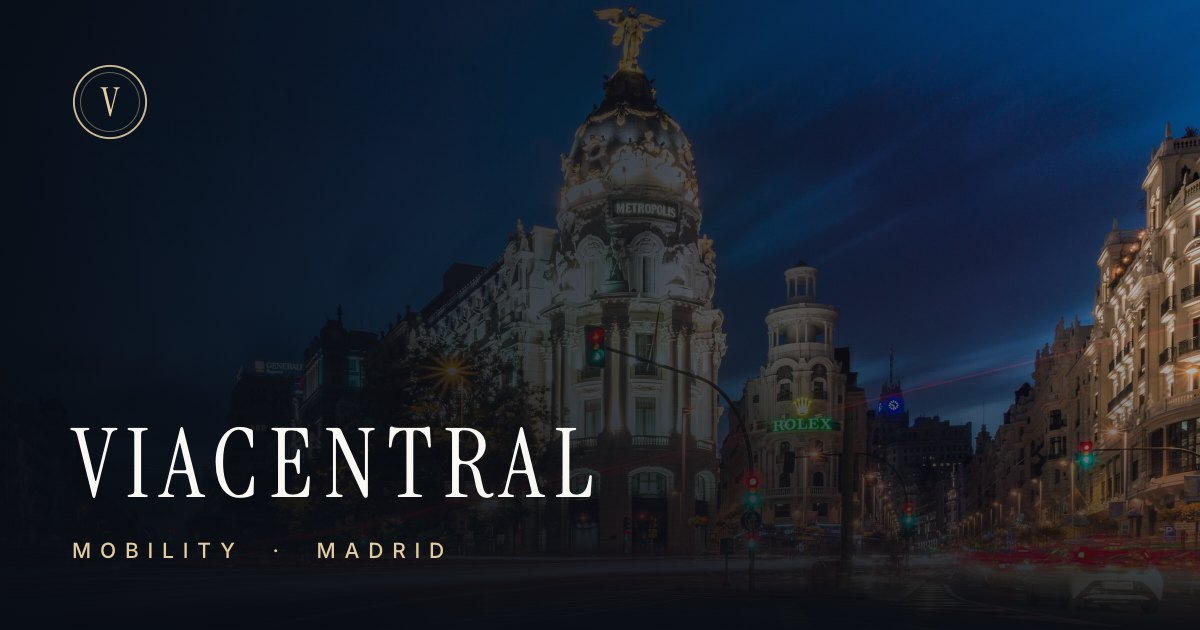
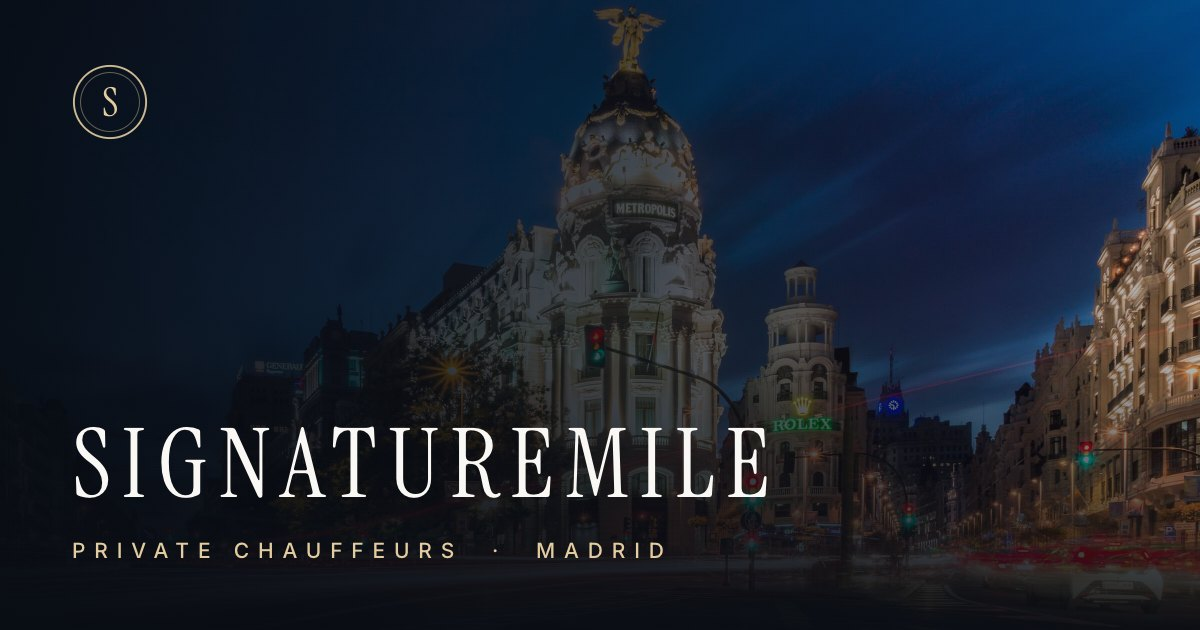
chore(brand): rename site to SignatureMile
Default contact email is now booking@signaturemile.com. Tightened
header spacing so the longer wordmark fits at 1024px.

diff --git a/frontend/src/components/layout/Header.tsx b/frontend/src/components/layout/Header.tsx
@@ -65,12 +65,12 @@ export function Header({ serviceLinks, mobileServiceLinks, phone }: Props) {
         {t.nav.skip}
       </a>
 
-      <div className="container-page flex h-[4.5rem] items-center justify-between gap-6">
-        <Link href="/" aria-label={`${site.name} ${site.descriptor}`} className="shrink-0">
+      <div className="container-page flex h-[4.5rem] items-center justify-between gap-4 xl:gap-6">
+        <Link href="/" aria-label={site.name} className="shrink-0">
           <Wordmark />
         </Link>
 
-        <nav aria-label={t.nav.main} className="hidden items-center gap-7 lg:flex">
+        <nav aria-label={t.nav.main} className="hidden items-center gap-4 lg:flex xl:gap-7">
           <div className="group relative">
             <Link href="/services" className={`${linkClass} gap-1`}>
               {t.nav.services}
@@ -87,9 +87,9 @@ export function Header({ serviceLinks, mobileServiceLinks, phone }: Props) {
           ))}
         </nav>
 
-        <div className="flex items-center gap-4">
+        <div className="flex items-center gap-3 xl:gap-4">
           {/* The width is reserved, so the menu does not move when the number arrives. */}
-          <div className="hidden min-w-[9.75rem] justify-end xl:flex">{phone}</div>
+          <div className="hidden min-w-[9.75rem] justify-end 2xl:flex">{phone}</div>
           {/* Wrappers own the show/hide rule, so it never competes with a component's own display class. */}
           <div className="hidden sm:block">
             <LanguageSwitch />

diff --git a/frontend/src/lib/seo.ts b/frontend/src/lib/seo.ts
@@ -13,7 +13,7 @@ interface PageMeta {
 }
 
 /** Picture shown when a page is shared in a chat or on social media (`public/og.jpg`). */
-const previewImage = { url: `${siteUrl}/og.jpg`, width: 1200, height: 630, alt: `${site.name} ${site.descriptor} — ${site.city}` }
+const previewImage = { url: `${siteUrl}/og.jpg`, width: 1200, height: 630, alt: `${site.name} — ${site.city}` }
 
 /** Title, description, canonical URL, `hreflang` alternates and Open Graph tags for a page. */
 export function pageMetadata({ locale, path, title, description, noIndex }: PageMeta): Metadata {
@@ -30,7 +30,7 @@ export function pageMetadata({ locale, path, title, description, noIndex }: Page
       url,
       title,
       description,
-      siteName: `${site.name} ${site.descriptor}`,
+      siteName: site.name,
       locale: localeTags[locale].replace('-', '_'),
       images: [previewImage],
     },

diff --git a/frontend/src/components/ui/Brand.tsx b/frontend/src/components/ui/Brand.tsx
@@ -26,8 +26,8 @@ export function Wordmark({ className = '' }: { className?: string }) {
     <span className={`inline-flex items-center gap-3 ${className}`}>
       <Monogram className="size-9 text-gold-300" />
       <span className="flex flex-col leading-none">
-        <span className="font-display text-[1.375rem] tracking-[0.18em] uppercase">{site.name}</span>
-        <span className="mt-1 text-[0.5625rem] font-medium tracking-[0.42em] uppercase opacity-60">{site.descriptor}</span>
+        <span className="font-display text-[1.25rem] tracking-[0.12em] uppercase">{site.name}</span>
+        <span className="mt-1 text-[0.5625rem] font-medium tracking-[0.3em] uppercase opacity-60">{site.descriptor}</span>
       </span>
     </span>
   )

diff --git a/backend/src/db/content/settings.ts b/backend/src/db/content/settings.ts
@@ -3,13 +3,13 @@ import type { SiteSettings } from '../../modules/content/schemas.js'
 /**
  * Business details a new database starts with.
  *
- * PLACEHOLDERS: the phone number, email address and company details are
+ * PLACEHOLDERS: the phone number and company details are
  * examples. Replace them in the console ("Business details") before launch.
  */
 export const DEFAULT_SITE_SETTINGS: SiteSettings = {
   phone: '+34 900 000 000',
   whatsapp: '34900000000',
-  email: 'hello@viacentralmobility.example',
+  email: 'booking@signaturemile.com',
   social: { instagram: '', facebook: '', tripadvisor: '', google: '' },
   legal: {
     companyName: '[Company legal name]',

diff --git a/frontend/src/content/site.ts b/frontend/src/content/site.ts
@@ -2,15 +2,15 @@
  * The brand, as built into the site: logo, page titles and search results.
  *
  * Contact details, company data and all page content are edited in the
- * operations console (`/admin`), not here.
+ * admin panel (`/admin`), not here.
  *
  * If the name changes, also replace the images that carry it (see "Before
  * going live" in the README).
  */
 export const site = {
-  name: 'ViaCentral',
-  /** Shown next to the name in the logo and page titles. */
-  descriptor: 'Mobility',
+  name: 'SignatureMile',
+  /** The small line under the name in the logo. */
+  descriptor: 'Private chauffeurs',
   city: 'Madrid',
   country: 'Spain',
 } as const

diff --git a/frontend/src/components/admin/NewBooking.tsx b/frontend/src/components/admin/NewBooking.tsx
@@ -56,7 +56,7 @@ function validateCustomer(contact: Draft['contact']): Record<string, string> {
 function confirmationMessage(booking: Booking, language: Locale, text: ManageMessages['newBooking']['confirmation'], timeZone: string): string {
   const c = text[language]
   const lines = [
-    fill(c.hello, { name: booking.contact.name.split(' ')[0] ?? booking.contact.name, brand: `${site.name} ${site.descriptor}` }),
+    fill(c.hello, { name: booking.contact.name.split(' ')[0] ?? booking.contact.name, brand: site.name }),
     '',
     `${c.reference}: ${booking.reference}`,
     `${c.pickup}: ${formatDateTime(booking.pickupAt, language, timeZone)}`,

diff --git a/frontend/src/app/[locale]/(site)/legal/[slug]/page.tsx b/frontend/src/app/[locale]/(site)/legal/[slug]/page.tsx
@@ -40,8 +40,8 @@ async function LegalContent({ params }: Pick<PageProps<'/[locale]/legal/[slug]'>
 
   // The texts say `{companyName}`, `{email}` and so on; the business details saved in the console go in their place.
   const details: Record<string, string> = settings
-    ? { ...settings.legal, email: settings.email, phone: settings.phone, brand: `${site.name} ${site.descriptor}` }
-    : { brand: `${site.name} ${site.descriptor}` }
+    ? { ...settings.legal, email: settings.email, phone: settings.phone, brand: site.name }
+    : { brand: site.name }
   const text = (value: string) => fill(value, details)
 
   return (

diff --git a/frontend/src/components/layout/Footer.tsx b/frontend/src/components/layout/Footer.tsx
@@ -132,7 +132,7 @@ export async function Footer({ year }: { year: number }) {
 
       <div className="border-t border-white/10">
         <div className="container-page flex flex-col gap-4 py-7 text-xs text-bone-100/55 lg:flex-row lg:items-center lg:justify-between">
-          <p>{fill(t.footer.rights, { year, name: `${site.name} ${site.descriptor}` })}</p>
+          <p>{fill(t.footer.rights, { year, name: site.name })}</p>
           <ul className="flex flex-wrap gap-x-6 gap-y-2">
             {legal.map((document) => (
               <li key={document.slug}>

diff --git a/frontend/src/components/admin/AdminShell.tsx b/frontend/src/components/admin/AdminShell.tsx
@@ -181,7 +181,7 @@ export function AdminShell({ nav, shell, children }: Props) {
               <Monogram className="size-8 shrink-0 text-gold-300" />
               <span className="min-w-0 leading-tight">
                 <span className="block truncate text-sm font-semibold tracking-wide">
-                  {site.name} {site.descriptor}
+                  {site.name}
                 </span>
                 <span className="block text-[0.6875rem] font-medium tracking-[0.14em] text-bone-50/50 uppercase">{shell.title}</span>
               </span>

diff --git a/frontend/src/app/[locale]/layout.tsx b/frontend/src/app/[locale]/layout.tsx
@@ -34,10 +34,10 @@ export function generateStaticParams() {
 export const metadata: Metadata = {
   metadataBase: new URL(siteUrl),
   title: {
-    default: `${site.name} ${site.descriptor} — ${site.city}`,
-    template: `%s · ${site.name} ${site.descriptor}`,
+    default: `${site.name} — ${site.city}`,
+    template: `%s · ${site.name}`,
   },
-  applicationName: `${site.name} ${site.descriptor}`,
+  applicationName: site.name,
   formatDetection: { telephone: false },
 }
 

diff --git a/frontend/src/app/[locale]/(site)/page.tsx b/frontend/src/app/[locale]/(site)/page.tsx
@@ -38,7 +38,7 @@ async function BusinessData() {
       data={{
         '@context': 'https://schema.org',
         '@type': 'TaxiService',
-        name: `${site.name} ${site.descriptor}`,
+        name: site.name,
         description: p.home.metaDescription,
         url: `${siteUrl}${href(locale)}`,
         ...(settings ? { telephone: settings.phone, email: settings.email } : {}),

diff --git a/frontend/src/app/[locale]/(site)/journal/[slug]/page.tsx b/frontend/src/app/[locale]/(site)/journal/[slug]/page.tsx
@@ -40,7 +40,7 @@ async function ArticleContent({ params }: Pick<PageProps<'/[locale]/journal/[slu
   const article = articles.find((candidate) => candidate.slug === slug)
   if (!article) notFound()
 
-  const publisher = `${site.name} ${site.descriptor}`
+  const publisher = site.name
   return (
     <>
       <JsonLd
